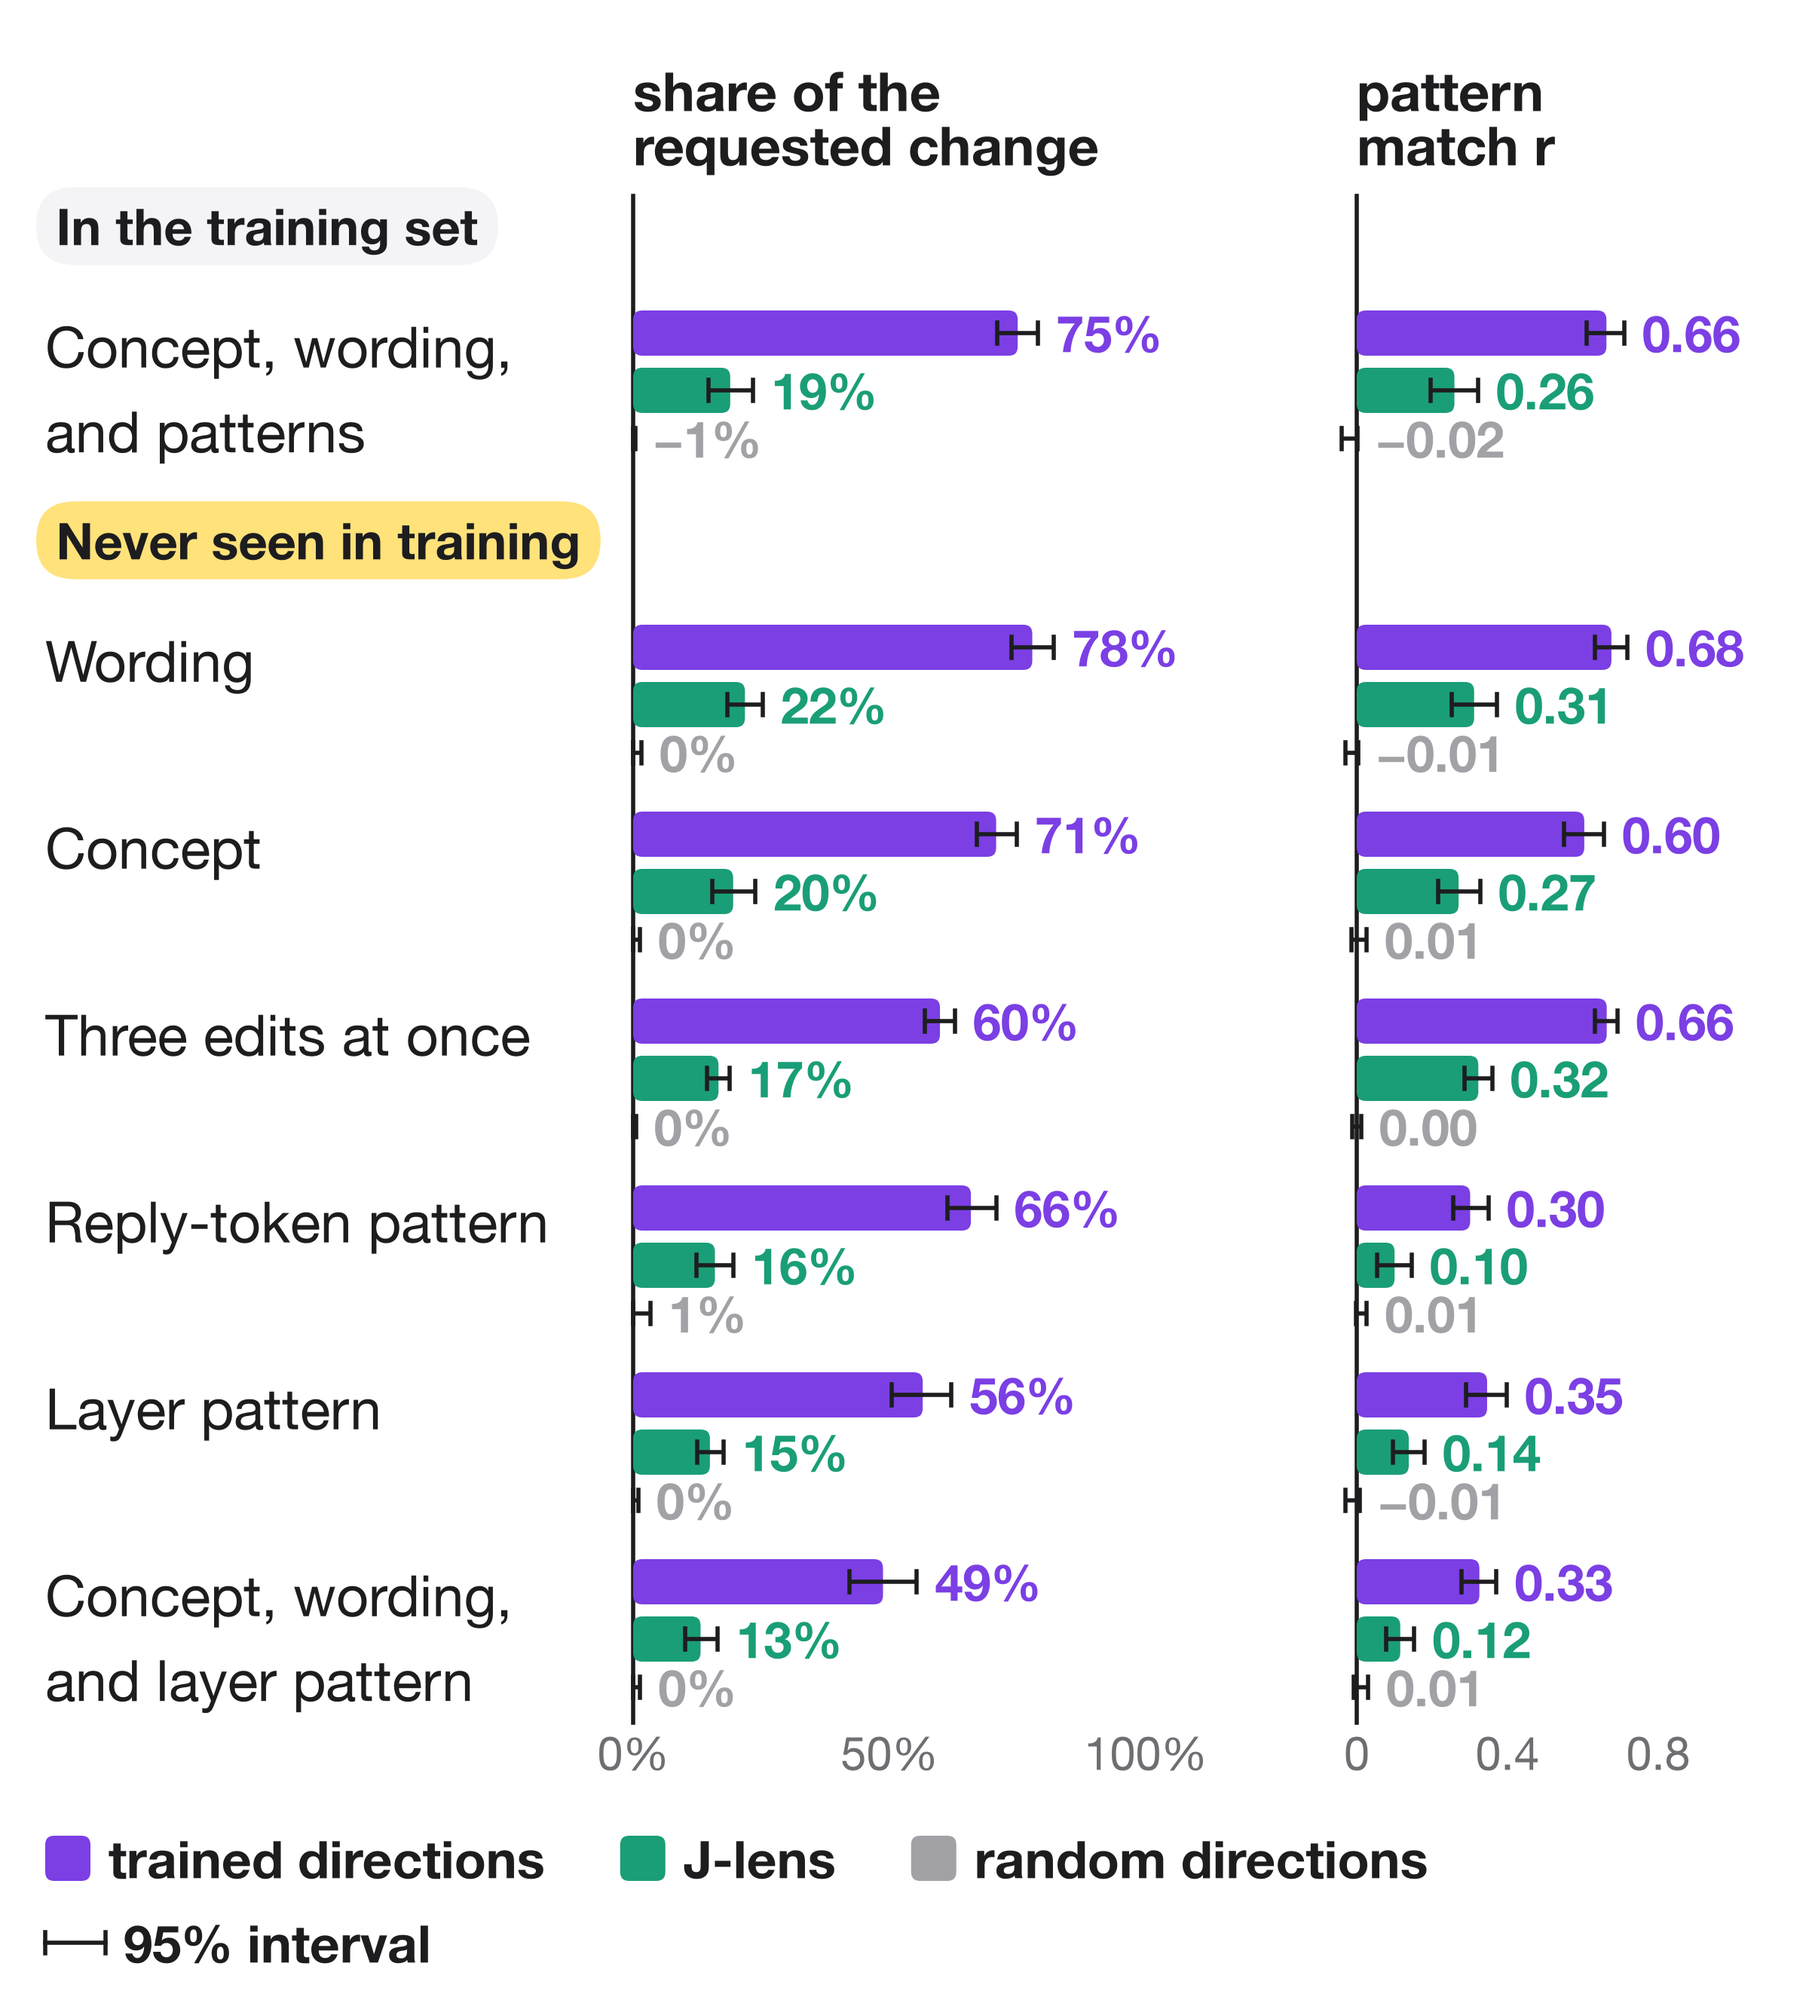
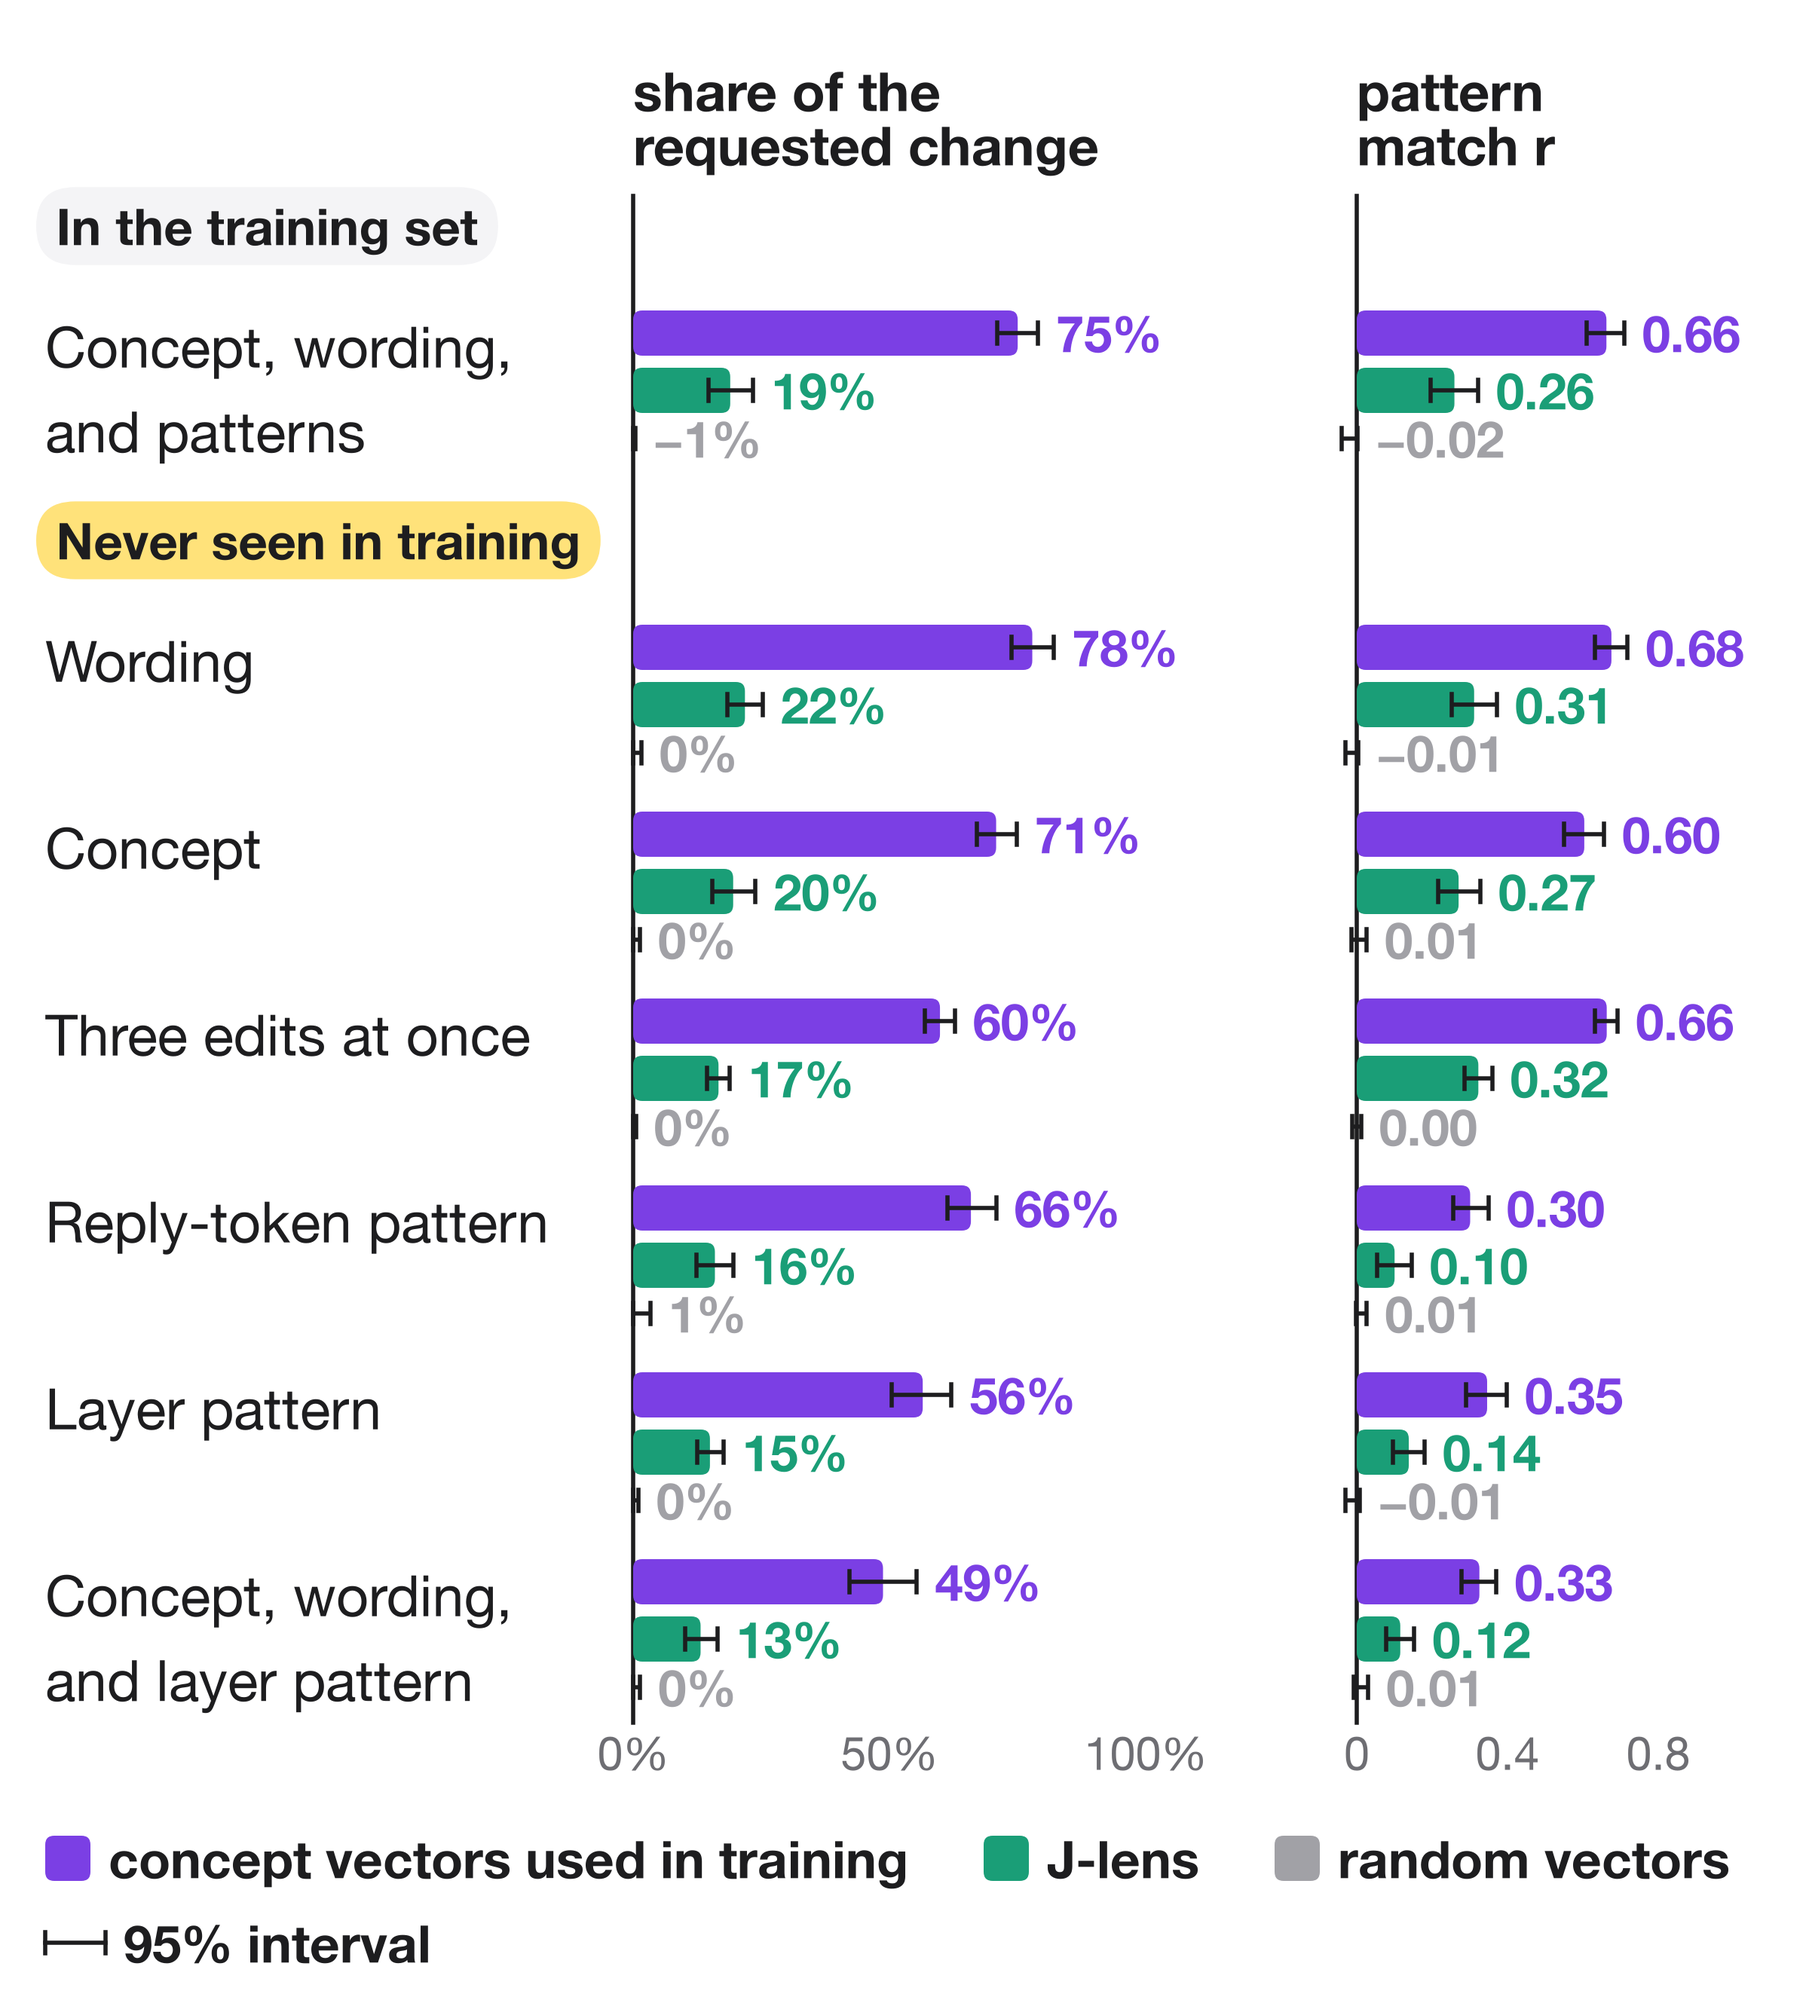
J-lens figure: legend in standard terms (concept vectors, J-lens, random vectors)

Changed region(s): [[0.0625, 0.9056, 0.9688, 0.9368]]

diff --git a/figures/make_figures.py b/figures/make_figures.py
@@ -1215,15 +1215,15 @@ def scale():
 
 
 def jlens():
-    """The trained Qwen3-4B's change on each test set read three ways: on the concept directions it was trained on, on
-    J-lens directions (the gradient of the concept's logit with respect to the residual stream), and on random
-    directions (results/jlens_r4.json, from magician/jlens.py)."""
+    """The trained Qwen3-4B's change on each test set read three ways: on the concept vectors used in training, on the
+    J-lens (the gradient of the concept's logit with respect to the residual stream), and on random vectors
+    (results/jlens_r4.json, from magician/jlens.py)."""
     J = load("jlens_r4.json")
     lens = lambda k: {"sets": {s: {"summary": v[k]} for s, v in J["sets"].items()}}
     fig, ax = canvas(3000)
     y = score_block(ax, 0, 2960, [(lens("trained"), None, PURPLE, 30), (lens("jlens"), None, TEAL, 30),
                                   (lens("random"), None, ORIG, 18)], gap=8)
-    y = legend(ax, 30, y - 70, (("trained directions", PURPLE), ("J-lens", TEAL), ("random directions", ORIG)))
+    y = legend(ax, 30, y - 70, (("concept vectors used in training", PURPLE), ("J-lens", TEAL), ("random vectors", ORIG)))
     crop(fig, ax, y - 40, 3000)
     save(fig, "jlens")
 
